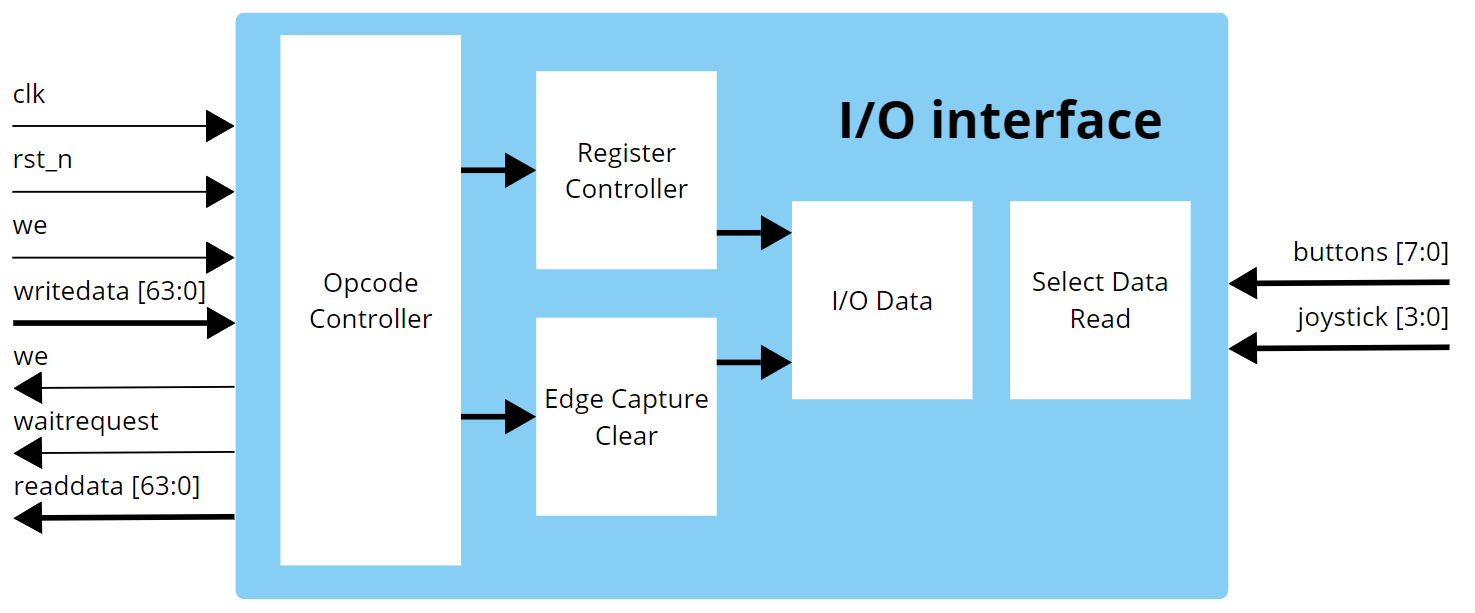
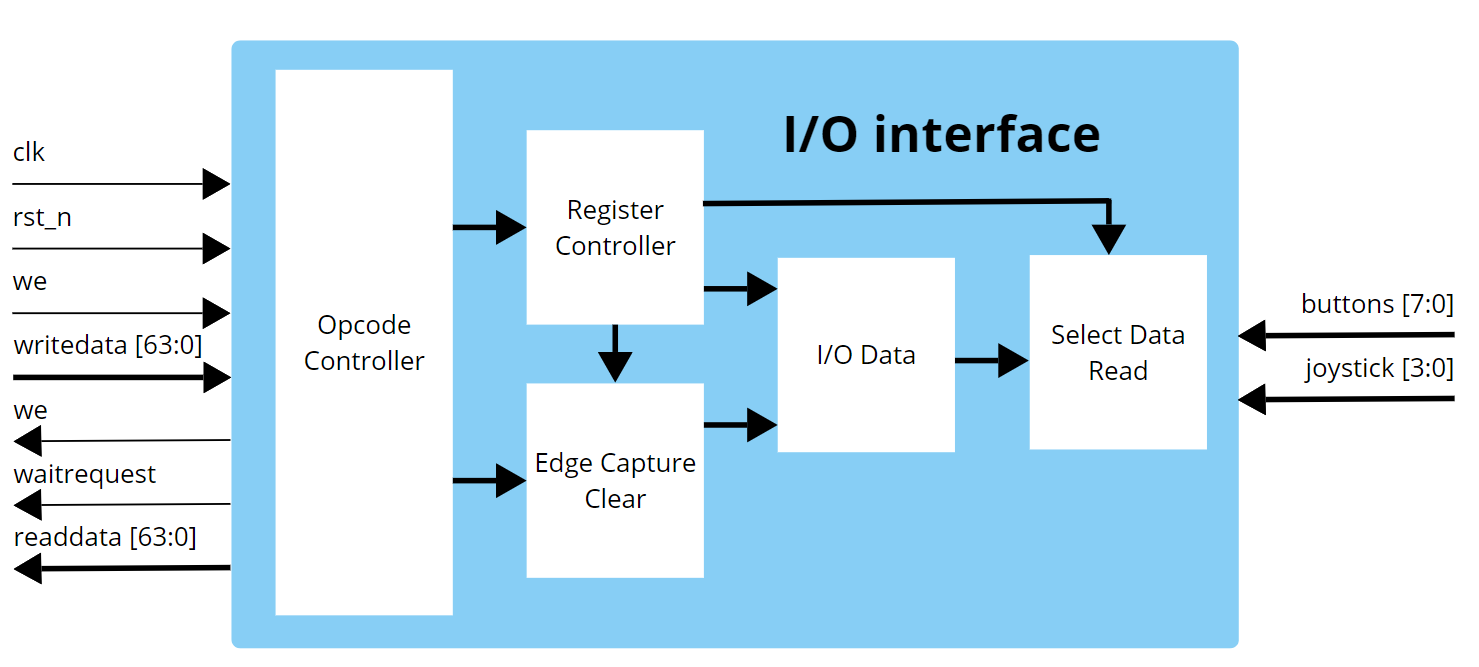
books doc: Adição das imagens e mudanças na escrita do texto

Changed region(s): [[0.0, 0.0, 0.998, 0.9918]]

diff --git a/doc/Modulo de IO/README.md b/doc/Modulo de IO/README.md
@@ -178,7 +178,7 @@ A interrupção pode ser configurada para borda ou nível, permitindo que o proc
 
 <h2>Arquitetura do Modulo de I/O</h2>
 
-Essa seção apresenta a arquitetura do módulo de I/O, detalhando sua estrutura interna, interfaces e funcionamento. O módulo é composto por cinco submódulos principais: **Controller**, **Edge Capture Clear**, **IO Data**, **Select Data Read** e **Opcode Control**. Cada submódulo desempenha funções específicas para gerenciar os dados dos botões e do joystick, controlar interrupções e processar comandos do processador.
+Essa seção apresenta a arquitetura do módulo de I/O, detalhando sua estrutura interna, interfaces e funcionamento. O módulo é composto por cinco submódulos principais: **Opcode Control**, **Register Controller**, **Edge Capture Clear**, **IO Data** e **Select Data Read**. Cada submódulo desempenha funções específicas para gerenciar os dados dos botões e do joystick, controlar interrupções e processar comandos do processador.
 Além disso, o módulo de I/O possui um **conjunto de instruções** para comunicação com o processador, permitindo ler e escrever dados nos registradores internos e configurar os parâmetros de controle e interrupção.
 
 <h3>Interface do modulo de I/O</h3>
@@ -220,28 +220,61 @@ Nesta seção, abordamos uma visão ampla do projeto experimental. Começamos an
 </p>
 <p align="center"><strong>Figura 6: Diagrama de blocos geral da interface do módulo de I/O</strong></p>
 
-<h4>Controle</h4>
+<h4>Opcode Controller</h4>
 
-O **módulo de Controle** gerencia o estado das configurações do módulo de I/O e a máscara de interrupção. 
-Ele contém um **registrador de controle**, acessível pelo endereço 0, com várias funções: um bit para reiniciar **(RST)** o módulo 
+O **módulo Opcode Controler** é responsável por interpretar os 
+opcodes enviados e direcionalos corretamente para o módulo.
+Em termos de montagem de hardware, ele é capaz de interpretar dados nos formatos de 32 e 64 bits, ajustando automaticamente os dados conforme o formato especificado. Essa configuração pode ser alterada no arquivo *Verilog* do módulo, modificando o parâmetro **CPU** para 32 ou 64 bits.
+
+Se um opcode não pertencer ao conjunto reconhecido pelo módulo, sua saída é zerada para evitar erros de leitura. Quando o endereço **3** é utilizado dentro do módulo não é realiza nenhuma operação.
+
+O módulo conta com as seguintes entradas e saídas:
+
+<div align="center">
+
+| Nome   | Tipo       | tamanho |         Descrição         |
+|--------|------------|---------|---------------------------|
+|in_reg_data | Entrada    | 64       | Barramento com os dados de enviados pelo processador |
+|opcode | Entrada    | 4       | Barramento com os opcodes  retirados dos 4 bits iniciais do in_reg_data|
+|out_reg_data | Saída   | 64      | Barramento com os dados de entrada do módulo |
+|we | Saída   | 1      | Sinal de escrita |
+|addr | Saída   | 2      | Barramento com o endereço do registrador|
+
+</div>
+
+<p align="center">
+<strong> Tabela 6: Entradas e saídas do módulo Opcode Control</strong></p>
+
+Para garantir a visualização do módulo, segue a imagem do diagrama de blocos do módulo.
+
+
+<div align="center">
+  <img src="img/opcodeController.png" width = "800" />
+</div>
+<p align="center"><strong>Figura 7: Diagrama de blocos do módulo Opcode Control</strong></p>
+
+<h4>Register Controller</h4>
+
+O **módulo de Register Controller** gerencia o estado das configurações do módulo de I/O e a máscara de interrupção. 
+Ele contém um **registrador de controle**, acessível pelo endereço **0**, com várias funções: um bit para reiniciar **(RST)** o módulo 
 (0 para reiniciar e 1 para manter o estado atual), um bit de enable (0 para desativar o módulo e impedir alterações, e 1 para 
 permitir modificações), um bit para habilitar ou desabilitar o cancelamento de ruído **(RCR)** (0 para usar o sinal atual do botão e 1 
 para ativar os registradores de captura de borda), e um seletor de borda ou nivel **(CCR)** que pode ser configurado como descida (00), subida (01), ambas (10) ou nivel (11). Cada um dos 12 periféricos de entrada possui um espaço no registrador para controlar o tipo de dado e a borda.
 A figura a seguir ilustra a organização dos registradores de controle.
 
 <p align="center">
-  <img src="img/register_controlle.png" width = "1000" />
+  <img src="img/register_controlle.png" width = "800" />
 </p>
 <p align="center"><strong>Figura 6: registrador de controle</strong></p>
 
-Além disso, o módulo de I/O inclui um **registrador de máscara de interrupção**, acessível pelo endereço 2, 
+Além disso, o módulo de I/O inclui um **registrador de máscara de interrupção**, acessível pelo endereço **2**, 
 que permite habilitar ou desabilitar interrupções específicas. Cada bit desse registrador corresponde a um
 periférico de entrada, permitindo a seleção de quais devem acionar a interrupção **(IRQ)**. Também há dois bits 
-reservados para cada periférico, permitindo definir a borda na qual a interrupção será acionada **(CCR)**. A figura 
+reservados para cada periférico, permitindo definir a borda na qual a interrupção será acionada **(CCR)** suas opções são semelhantes ao CCR do registrador de controle. A figura 
 a seguir mostra a estrutura do registrador de máscara de interrupção.
 
 <p align="center">
-  <img src="img/register_irq.png" width = "1000" />
+  <img src="img/register_irq.png" width = "800" />
 </p>
 <p align="center"><strong>Figura 7: registrador de máscara de interrupção</strong></p>
 
@@ -266,12 +299,17 @@ Por fim, o módulo conta com as seguintes entradas e saídas:
 
 Para facilitar a visualização segue uma imagem do diagrama de blocos do módule.
 
+<div align="center">
+  <img src="img/registerController.png" width = "800" />
+</div>
+<p align="center"><strong>Figura 8: Diagrama de blocos do módulo de controle</strong></p>
+
 <h4>Edge Capture Clear</h4>
 
 O **módulo Edge Capture Clear** é responsável por limpar os registradores de captura de borda, que armazenam as mudanças de estado dos periféricos. Ele é ativado pelo processador, que envia um sinal de escrita para realizar a limpeza. Para acessar este módulo, o processador deve escrever no endereço 1, correspondente ao registrador de dados. Ao escrever o valor 1 no bit que representa o periférico desejado **(RS)**, o respectivo registrador de captura de borda é limpo. A figura a seguir ilustra a estrutura do registrador de captura de borda e dados.
 
 <p align="center">
-  <img src="img/register_data.png" width = "1000" />
+  <img src="img/register_data.png" width = "800" />
 </p>
 <p align="center"><strong>Figura 8: registrador de dados e captura de borda</strong></p>
 
@@ -350,36 +388,6 @@ O **módulo MUX** é responsável por selecionar o tipo de dado que será lido p
 </div>
 <p align="center">
 <strong> Tabela 5: Saídas do módulo MUX</strong></p>
-
-<h4>Opcode Control</h4>
-
-O **módulo Opcode Control** é responsável por interpretar os 
-opcodes enviados e direcionalos corretamente para o módulo.
-Nesse sentido, a nivel de hardware, o módulo é capaz de interpretar o formato dos dados tanto de 32 bits quanto de 64 bits, montando os dados para cada um dos formatos. 
-
-Em caso de envio de opcode que não pertence ao módulo,
-o módulo zera a saída para evitar erros de leitura. Usando o
-endereço 0b11, o módulo não realiza nenhuma operação.
-
-O módulo conta com as seguintes entradas e saídas:
-
-<div align="center">
-
-| Nome   | Tipo       | tamanho |         Descrição         |
-|--------|------------|---------|---------------------------|
-|in_reg_data | Entrada    | 64       | Barramento com os dados de enviados pelo processador |
-|opcode | Entrada    | 4       | Barramento com os opcodes enviados pelo processador |
-|out_reg_data | Saída   | 64      | Barramento com os dados de entrada do módulo |
-|we | Saída   | 1      | Sinal de escrita |
-|addr | Saída   | 2      | Barramento com o endereço do registrador|
-
-</div>
-
-<p align="center">
-<strong> Tabela 6: Entradas e saídas do módulo Opcode Control</strong></p>
-
-Para garantir a visualização do módulo, segue a imagem do diagrama de blocos do módulo.
-
 
 <h3> Comunicação com o Processador</h3>
 
